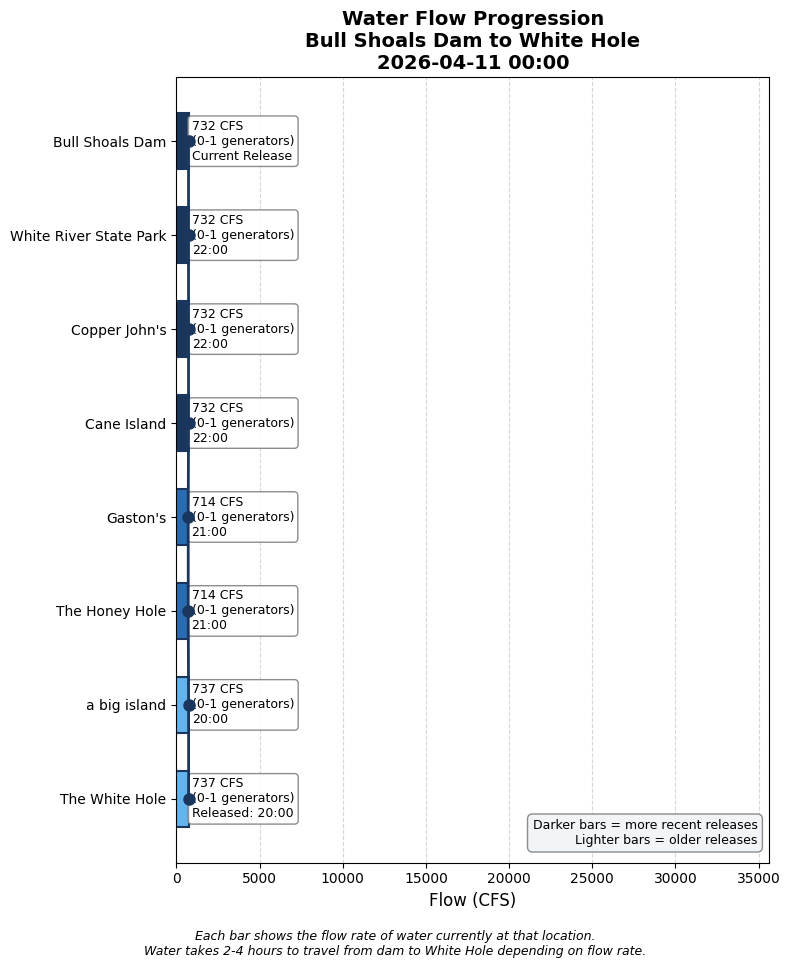
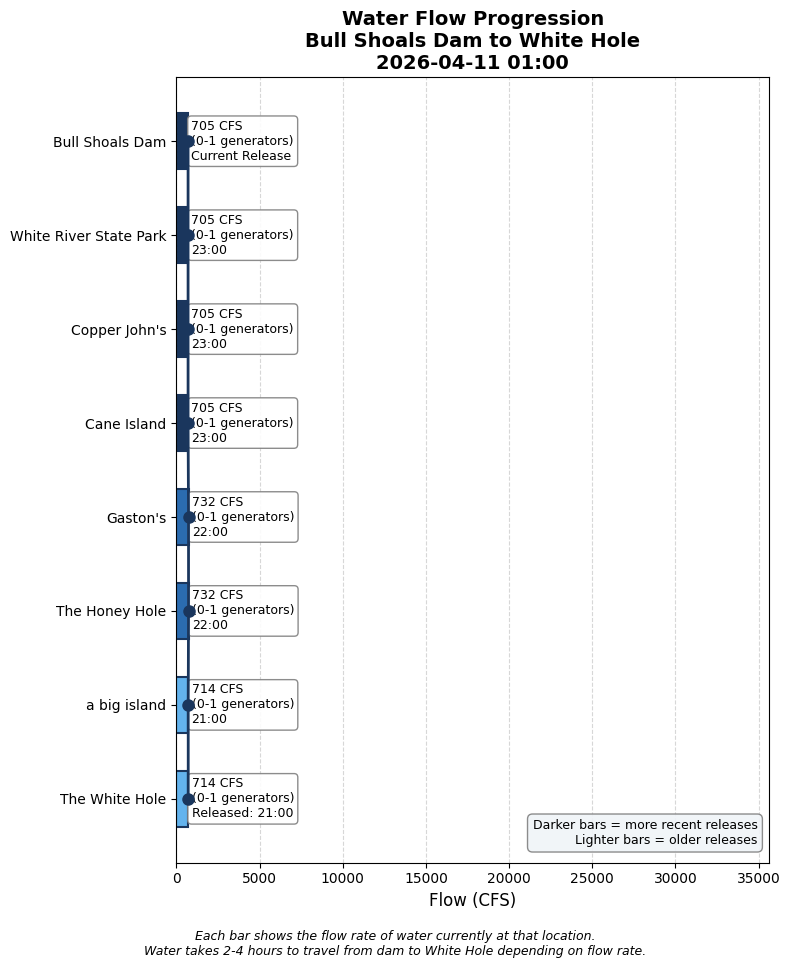
Update water conditions 2026-04-11 01:00

diff --git a/white_hole_conditions.html b/white_hole_conditions.html
@@ -3,7 +3,7 @@
 <head>
     <meta charset="UTF-8">
     <meta name="viewport" content="width=device-width, initial-scale=1.0">
-    <title>White Hole Conditions - 2026-04-11 00:00</title>
+    <title>White Hole Conditions - 2026-04-11 01:00</title>
     <style>
         body {
             font-family: -apple-system, BlinkMacSystemFont, 'Segoe UI', Roboto, sans-serif;
@@ -148,7 +148,7 @@
 </head>
 <body>
     <h1>White Hole Current Conditions</h1>
-    <p class="subtitle">Saturday, April 11, 2026 at 12:00 AM</p>
+    <p class="subtitle">Saturday, April 11, 2026 at 01:00 AM</p>
 
     <!-- HEADLINE BANNER -->
     <div class="headline-banner">
@@ -160,7 +160,7 @@
     <!-- CURRENT CONDITIONS -->
     <div class="current-conditions">
         <h3>Current Conditions at White Hole</h3>
-        <div class="flow-display">737 CFS</div>
+        <div class="flow-display">714 CFS</div>
         <div class="generator-display">Equivalent to 0-1 generators</div>
         <div class="condition-pills">
             <span class="pill wading">Excellent Wading</span>
@@ -189,6 +189,14 @@
                 <tr><td colspan="3" style="padding: 8px 10px; font-size: 0.8em; font-weight: bold; color: #6b46c1; text-transform: uppercase; letter-spacing: 0.05em; background-color: #f3e8ff;">Scheduled (SWPA forecast)</td></tr>
                 
                     <tr style="background-color: #faf5ff; ">
+                        <td style="padding: 10px; font-weight: bold;">4 AM</td>
+                        <td style="padding: 10px;">723 CFS<br><small style="color: #666;">(0-1 generators: 473 generation + 250 min flow)</small></td>
+                        <td style="padding: 10px;">~7:44 AM
+                            <span style="display: inline-block; margin-left: 6px; padding: 2px 8px; border-radius: 12px; font-size: 0.8em; background-color: #d1fae5; color: #065f46;">Excellent Wading</span>
+                        </td>
+                    </tr>
+                
+                    <tr style="background-color: #faf5ff; ">
                         <td style="padding: 10px; font-weight: bold;">3 AM</td>
                         <td style="padding: 10px;">723 CFS<br><small style="color: #666;">(0-1 generators: 473 generation + 250 min flow)</small></td>
                         <td style="padding: 10px;">~6:44 AM
@@ -212,39 +220,31 @@
                         </td>
                     </tr>
                 
-                    <tr style="background-color: #faf5ff; ">
-                        <td style="padding: 10px; font-weight: bold;">12 AM</td>
-                        <td style="padding: 10px;">723 CFS<br><small style="color: #666;">(0-1 generators: 473 generation + 250 min flow)</small></td>
-                        <td style="padding: 10px;">~3:44 AM
-                            <span style="display: inline-block; margin-left: 6px; padding: 2px 8px; border-radius: 12px; font-size: 0.8em; background-color: #d1fae5; color: #065f46;">Excellent Wading</span>
-                        </td>
-                    </tr>
-                
             
                     
                 <tr><td colspan="3" style="padding: 8px 10px; font-size: 0.8em; font-weight: bold; color: #2b6cb0; text-transform: uppercase; letter-spacing: 0.05em; background-color: #ebf8ff;">Actual (dam readings)</td></tr>
                 
                     <tr style="background-color: #ebf8ff;">
-                        <td style="padding: 10px; font-weight: bold;">10:00 PM</td>
-                        <td style="padding: 10px;">732 CFS<br><small style="color: #666;">(0-1 generators)</small></td>
-                        <td style="padding: 10px;"><span style="color: #2b6cb0;">→ Arrives ~1:44 AM (in 103 min)</span></td>
+                        <td style="padding: 10px; font-weight: bold;">11:00 PM</td>
+                        <td style="padding: 10px;">705 CFS<br><small style="color: #666;">(0-1 generators)</small></td>
+                        <td style="padding: 10px;"><span style="color: #2b6cb0;">→ Arrives ~2:44 AM (in 103 min)</span></td>
                     </tr>
                 
                     <tr style="background-color: #ebf8ff;">
-                        <td style="padding: 10px; font-weight: bold;">9:00 PM</td>
-                        <td style="padding: 10px;">714 CFS<br><small style="color: #666;">(0-1 generators)</small></td>
-                        <td style="padding: 10px;"><span style="color: #2b6cb0;">→ Arrives ~12:44 AM (in 43 min)</span></td>
+                        <td style="padding: 10px; font-weight: bold;">10:00 PM</td>
+                        <td style="padding: 10px;">732 CFS<br><small style="color: #666;">(0-1 generators)</small></td>
+                        <td style="padding: 10px;"><span style="color: #2b6cb0;">→ Arrives ~1:44 AM (in 43 min)</span></td>
                     </tr>
                 
                     <tr style="background-color: #e6fffa;">
-                        <td style="padding: 10px; font-weight: bold;">8:00 PM</td>
-                        <td style="padding: 10px;">737 CFS<br><small style="color: #666;">(0-1 generators)</small></td>
+                        <td style="padding: 10px; font-weight: bold;">9:00 PM</td>
+                        <td style="padding: 10px;">714 CFS<br><small style="color: #666;">(0-1 generators)</small></td>
                         <td style="padding: 10px;"><span style="color: #319795; font-weight: bold;">← AT WHITE HOLE NOW</span></td>
                     </tr>
                 
                     <tr style="">
-                        <td style="padding: 10px; font-weight: bold;">5:00 PM</td>
-                        <td style="padding: 10px;">10,743 CFS<br><small style="color: #666;">(3-4 generators)</small></td>
+                        <td style="padding: 10px; font-weight: bold;">6:00 PM</td>
+                        <td style="padding: 10px;">11,368 CFS<br><small style="color: #666;">(3-4 generators)</small></td>
                         <td style="padding: 10px;"><span style="color: #718096;">passed</span></td>
                     </tr>
                 
@@ -274,9 +274,9 @@
         </summary>
         <div style="padding: 15px;">
             <ul>
-                <li>Latest dam reading: 732 CFS at 2026-04-10 22:00</li>
+                <li>Latest dam reading: 705 CFS at 2026-04-10 23:00</li>
                 <li>Travel time to White Hole: 3.7 hours at current flow</li>
-                <li>White Hole conditions based on dam reading from: 2026-04-10 20:00</li>
+                <li>White Hole conditions based on dam reading from: 2026-04-10 21:00</li>
             </ul>
         </div>
     </details>
@@ -298,6 +298,13 @@
                     </thead>
                     <tbody>
                         
+                <tr style="border-bottom: 1px solid #eee;">
+                    <td style="padding: 8px;">2026-04-10 23:00</td>
+                    <td style="padding: 8px; text-align: right;">705</td>
+                    <td style="padding: 8px; text-align: right;">0.2</td>
+                    <td style="padding: 8px; text-align: right;">3.7</td>
+                </tr>
+                
                 <tr style="border-bottom: 1px solid #eee;">
                     <td style="padding: 8px;">2026-04-10 22:00</td>
                     <td style="padding: 8px; text-align: right;">732</td>
@@ -361,13 +368,6 @@
                     <td style="padding: 8px; text-align: right;">3.7</td>
                 </tr>
                 
-                <tr style="border-bottom: 1px solid #eee;">
-                    <td style="padding: 8px;">2026-04-10 13:00</td>
-                    <td style="padding: 8px; text-align: right;">655</td>
-                    <td style="padding: 8px; text-align: right;">0.2</td>
-                    <td style="padding: 8px; text-align: right;">3.7</td>
-                </tr>
-                
                     </tbody>
                 </table>
             </div>
@@ -375,7 +375,7 @@
         
 
     <div class="timestamp">
-        Data retrieved and processed on 2026-04-11 00:00:08
+        Data retrieved and processed on 2026-04-11 01:00:08
     </div>
 </body>
 </html>
